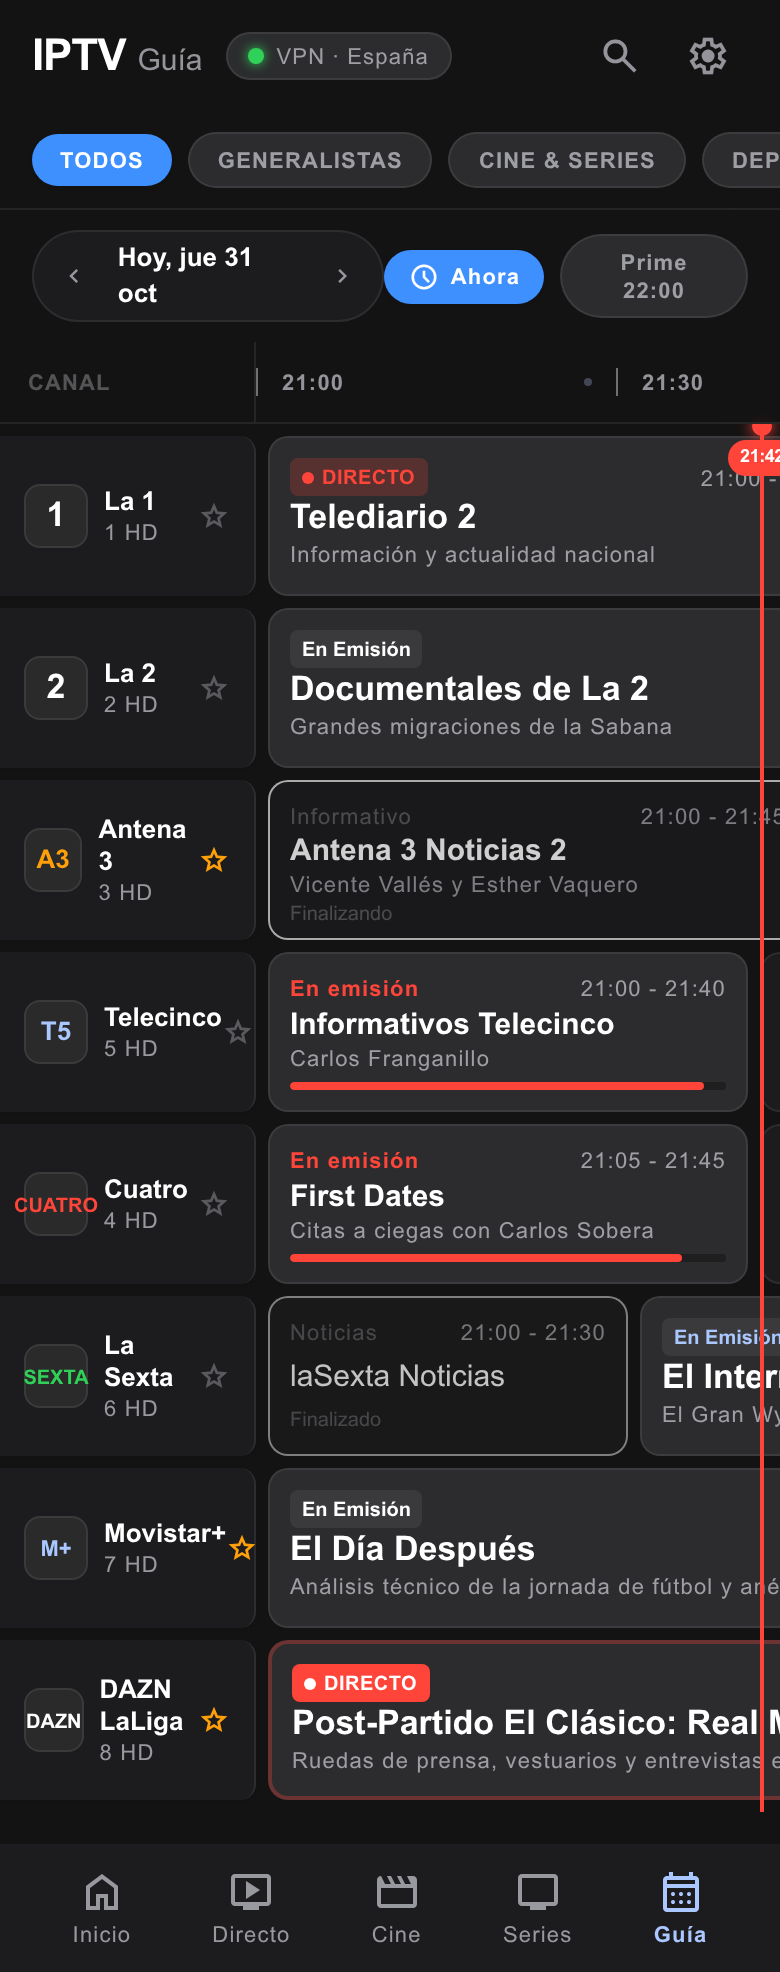
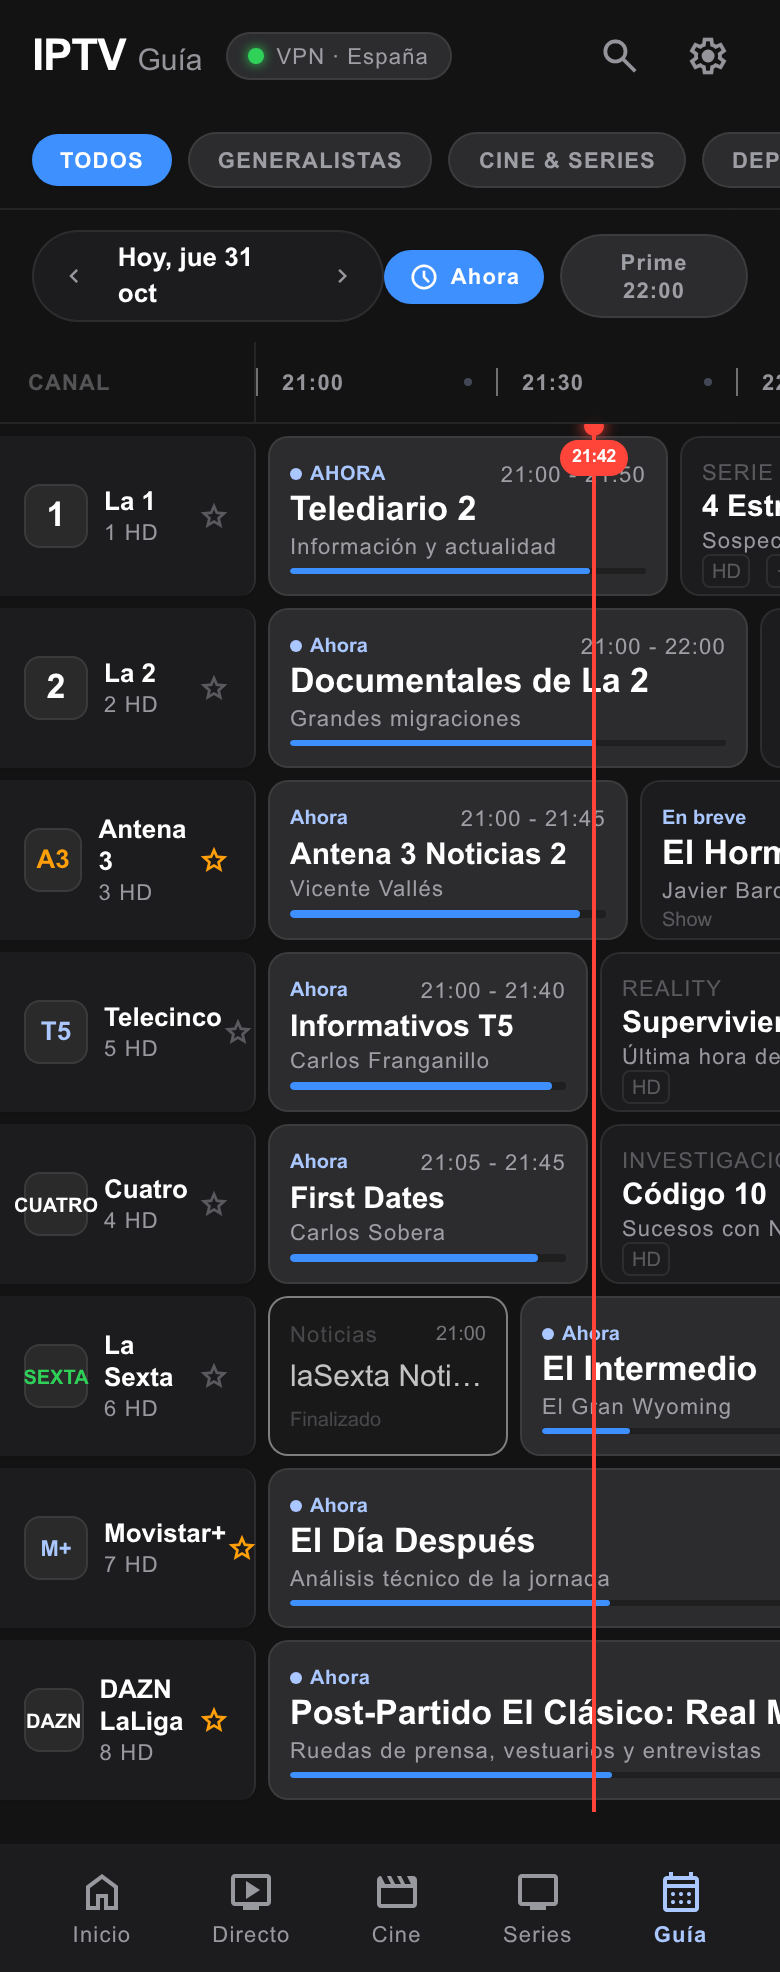
Fase 1 móvil: diseño cerrado en Stitch
- 15 pantallas nuevas: ficha de película, búsqueda, PIN parental,
  catch-up, test de velocidad, estado vacío, error de conexión,
  reproductor vertical, reconexión, mini reproductor, multipantalla y
  error del reproductor en horizontal, e Inicio/Directo/Cine de tableta.
- Correcciones: sin etiquetas rojas «DIRECTO» en las Guías (solo la línea
  de la hora en rojo), sin botón de descarga en las fichas de serie y
  fondo limpio en la ficha de película.
- DESIGN.md apunta a DESIGN-MOBILE.md; plan con la fase 1 cerrada.

Claude-Session: https://claude.ai/code/session_01KjYb3NKPR3cSgJ9UCraMEx

Changed region(s): [[0.3385, 0.1856, 1.0, 0.928], [0.0308, 0.5877, 0.1231, 0.6187]]

diff --git a/DESIGN.md b/DESIGN.md
@@ -108,7 +108,7 @@ components:
 
 Diseño fuente en **Google Stitch**: proyecto «Lumen TV — IPTV para Fire TV» (id `16620154609208606606`). Las capturas exportadas están en `design/stitch/`. Los tokens de arriba son la referencia normativa; en código viven en `app/src/main/java/app/lumentv/ui/theme/Theme.kt` (`LumenColors`, `LumenType`, `LumenDimens`). Si cambias uno, cambia el otro.
 
-Este documento describe la UI de **TV** (sabor `tv`). La versión móvil (sabor `mobile`) comparte estos tokens de color y tipografía, pero sus reglas táctiles y de orientación están en `design/stitch-mobile/DESIGN.md` (proyecto Stitch «IPTV — Android móvil», id `11739808551864426596`) y en `docs/PLAN-MOVIL.md`.
+Este documento describe la UI de **TV** (sabor `tv`). La versión móvil (sabor `mobile`) comparte estos tokens de color y tipografía, pero sus reglas táctiles y de orientación están en `DESIGN-MOBILE.md` (proyecto Stitch «IPTV — Android móvil», id `11739808551864426596`) y en `docs/PLAN-MOVIL.md`.
 
 ## Overview
 
